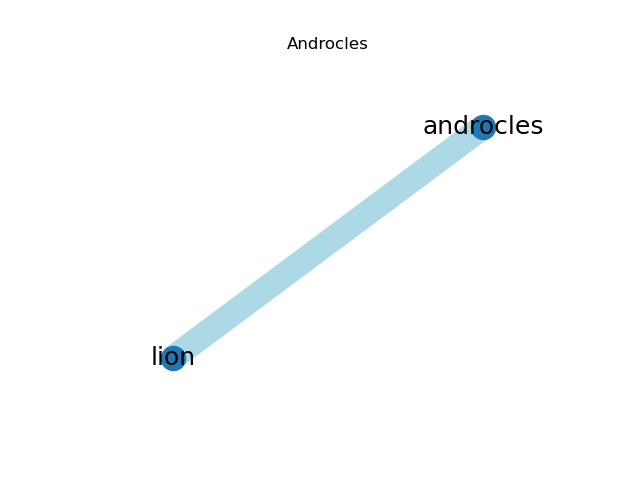
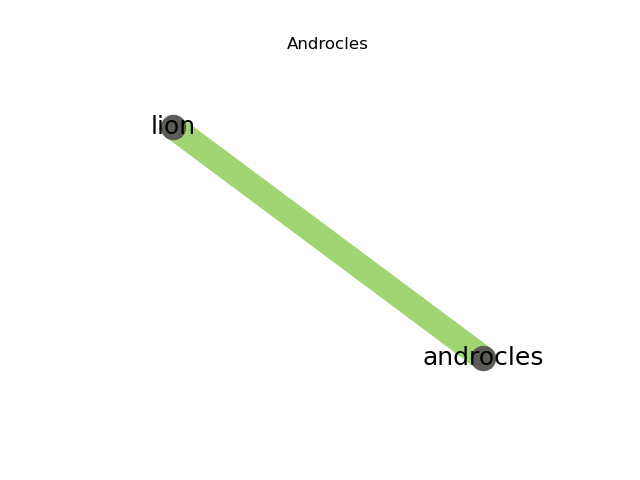
Updated graphs

Changed region(s): [[0.2188, 0.2188, 0.8438, 0.7812]]

diff --git a/src/coocurance.py b/src/coocurance.py
@@ -6,8 +6,13 @@ import numpy as np
 import pandas as pd
 from nltk.tokenize import sent_tokenize
 
+colors_dict={
+    1: '#A1D573',
+    -1: '#E46425',
+    0: '#F5B521'
+}
 
-def draw_graph(story, characters, story_name, plot=True):
+def draw_graph(story, characters, story_name, sentiment,plot=True):
     sentences = sent_tokenize(story)
     entity_matrix = np.zeros((len(characters), len(characters)))
 
@@ -34,9 +39,20 @@ def draw_graph(story, characters, story_name, plot=True):
 
         l = {i: n for i, n in enumerate(selected.columns)}
         G = nx.from_numpy_matrix(np.matrix(selected))
+
+        for u,v,d in G.edges(data=True):
+            c1=characters[u]
+            c2=characters[v]
+            d['color'] = colors_dict[sentiment[c1][c2]]
+
+        # for character1 in G.nodes():
+        #     for character2 in G.nodes():
+        #         G[character1][character2]['color']=sentiment[character1][character2]
+
         edges = G.edges()
         weights = [G[u][v]['weight'] for u, v in edges]
-        nx.draw(G, ax=ax,labels=l, with_labels=True, width=weights, font_size=18, edge_color='lightblue')
+        colors = [G[u][v]['color'] for u, v in edges]
+        nx.draw(G, ax=ax,labels=l, with_labels=True, width=weights, font_size=18, edge_color=colors, node_color='#5C5B58')
 
         ax.set_title(story_name.replace('.txt', '').replace('_',' '))
         plt.savefig("../results/figs/" + story_name.replace('txt', 'png'))
@@ -52,5 +68,5 @@ for story_name in os.listdir(dir_path):
 
     with open('../data/aesop/annotations/' + story_name.replace('txt', 'json'), 'r') as file:
         ground_truth = json.load(file)
-    entity_matrix = draw_graph(story, ground_truth['characters'], story_name)
+    entity_matrix = draw_graph(story, ground_truth['characters'], story_name, ground_truth['sentiments'])
     print()
